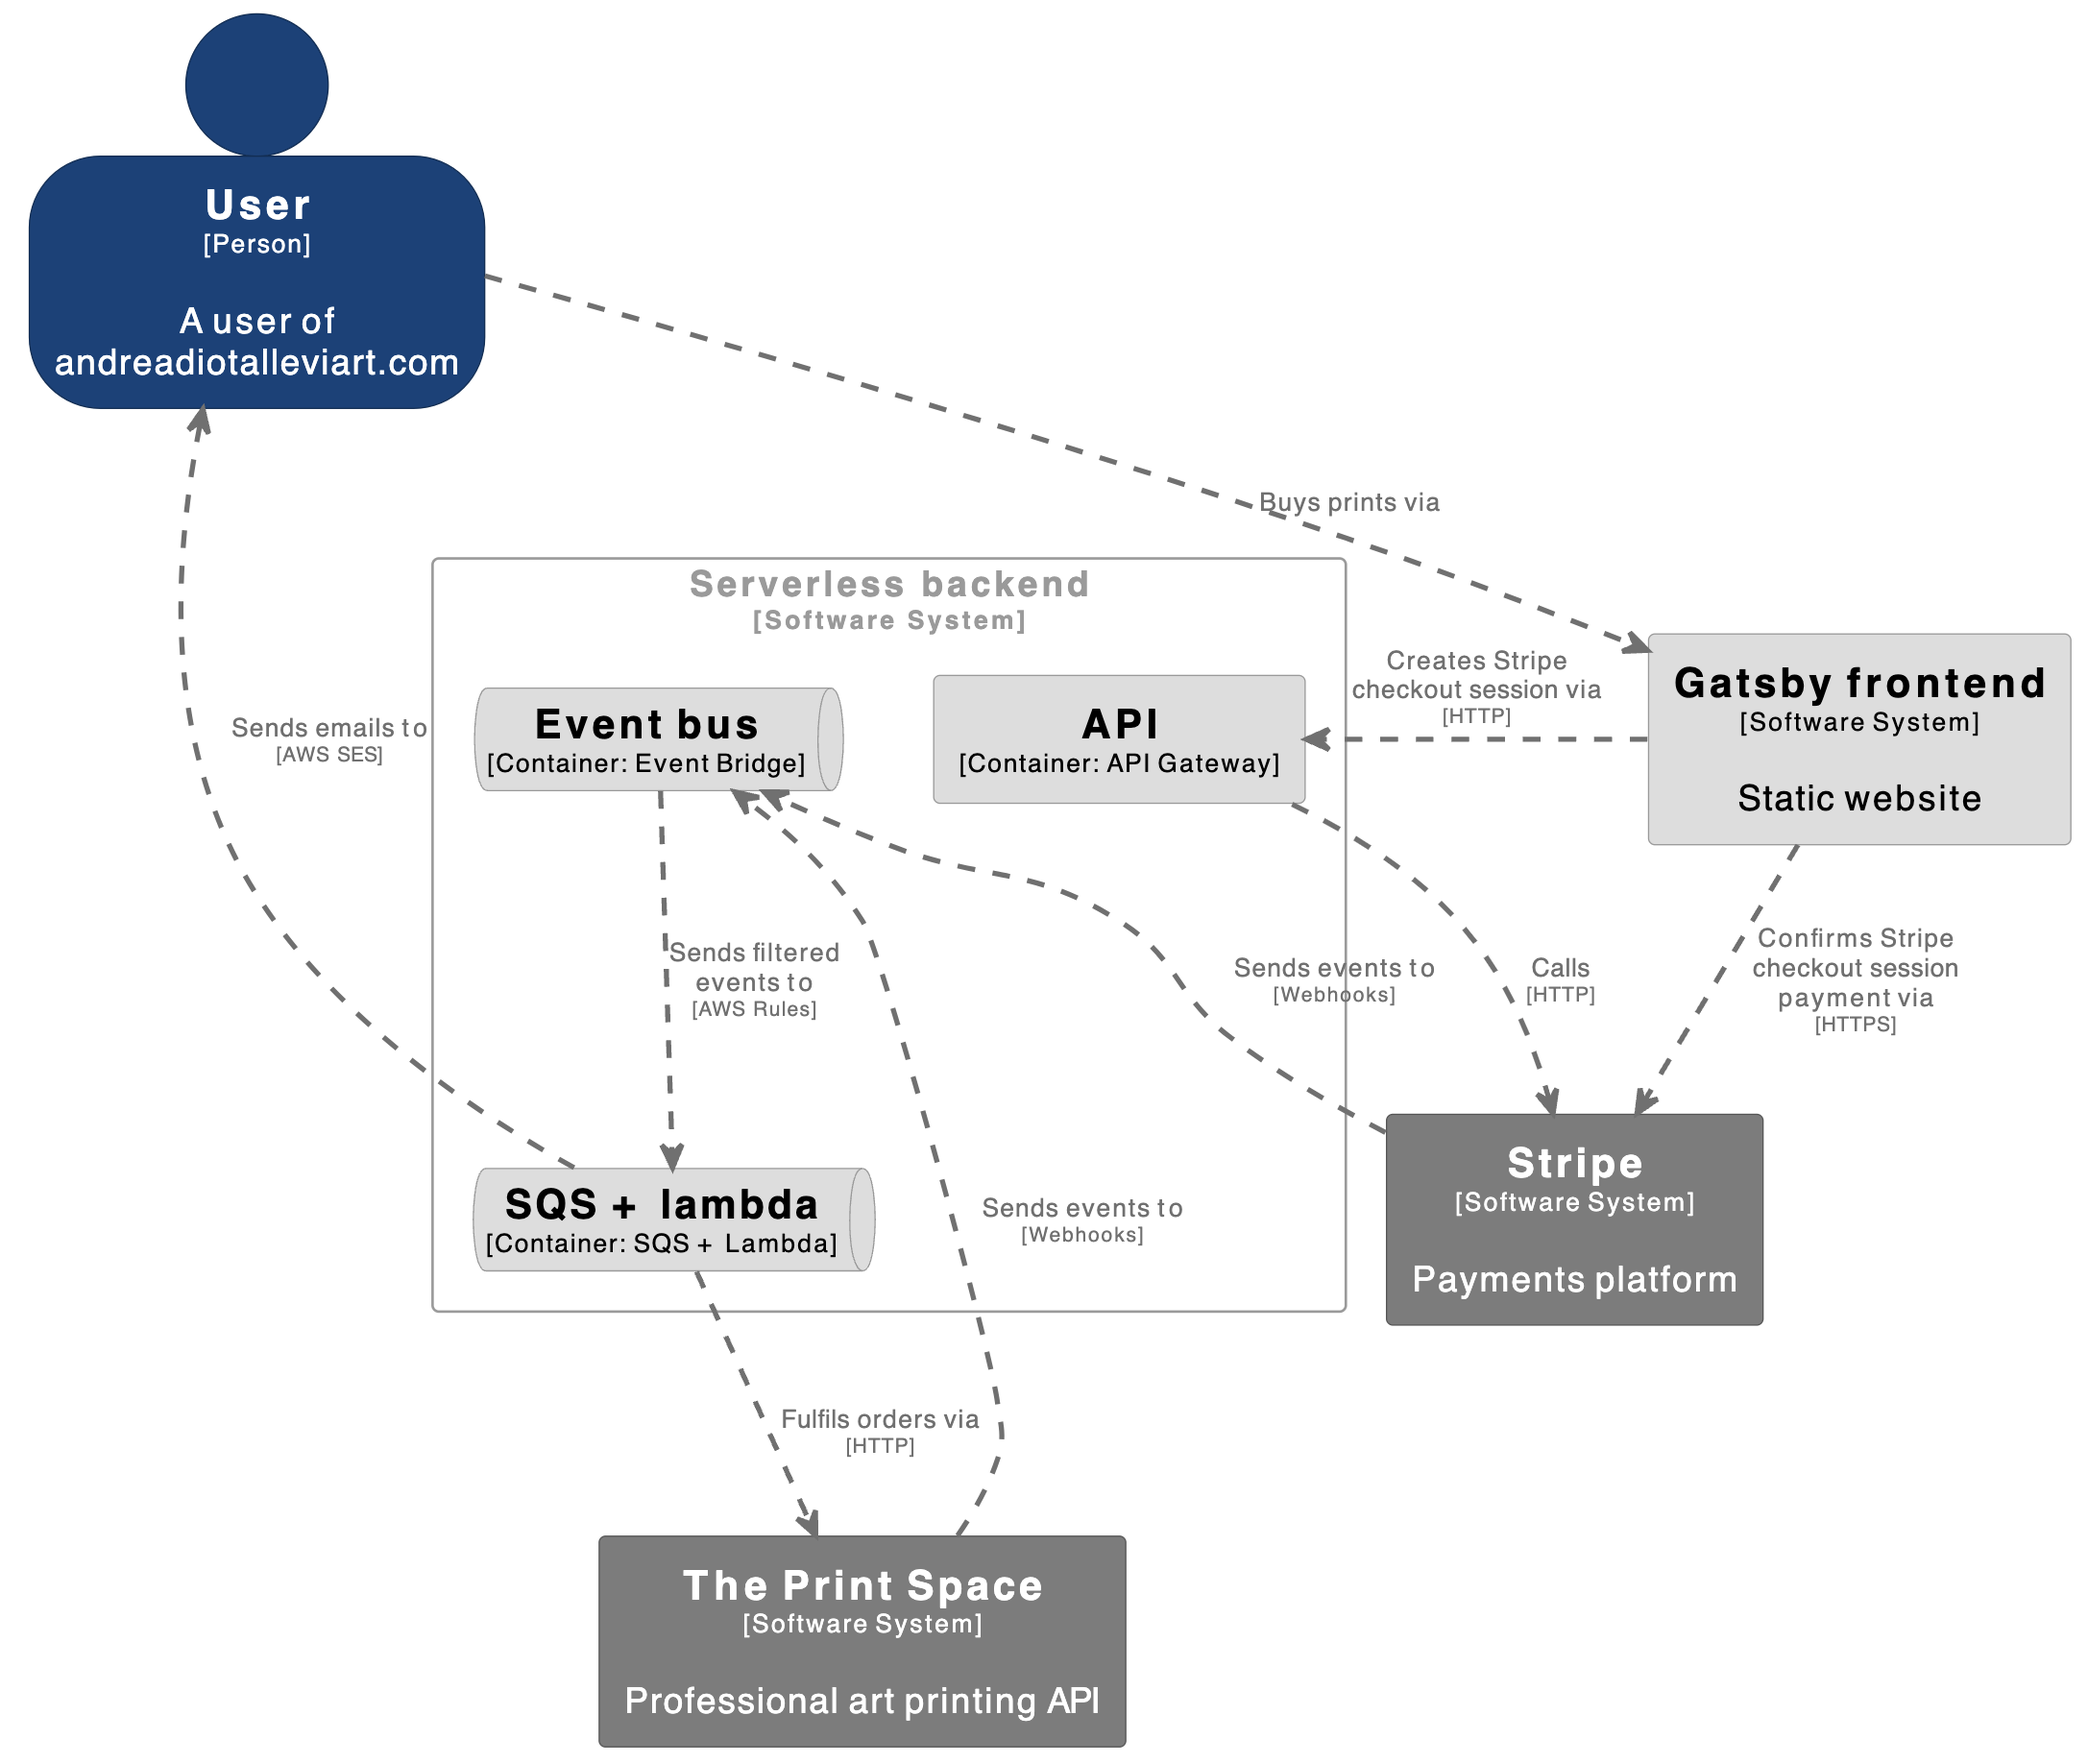
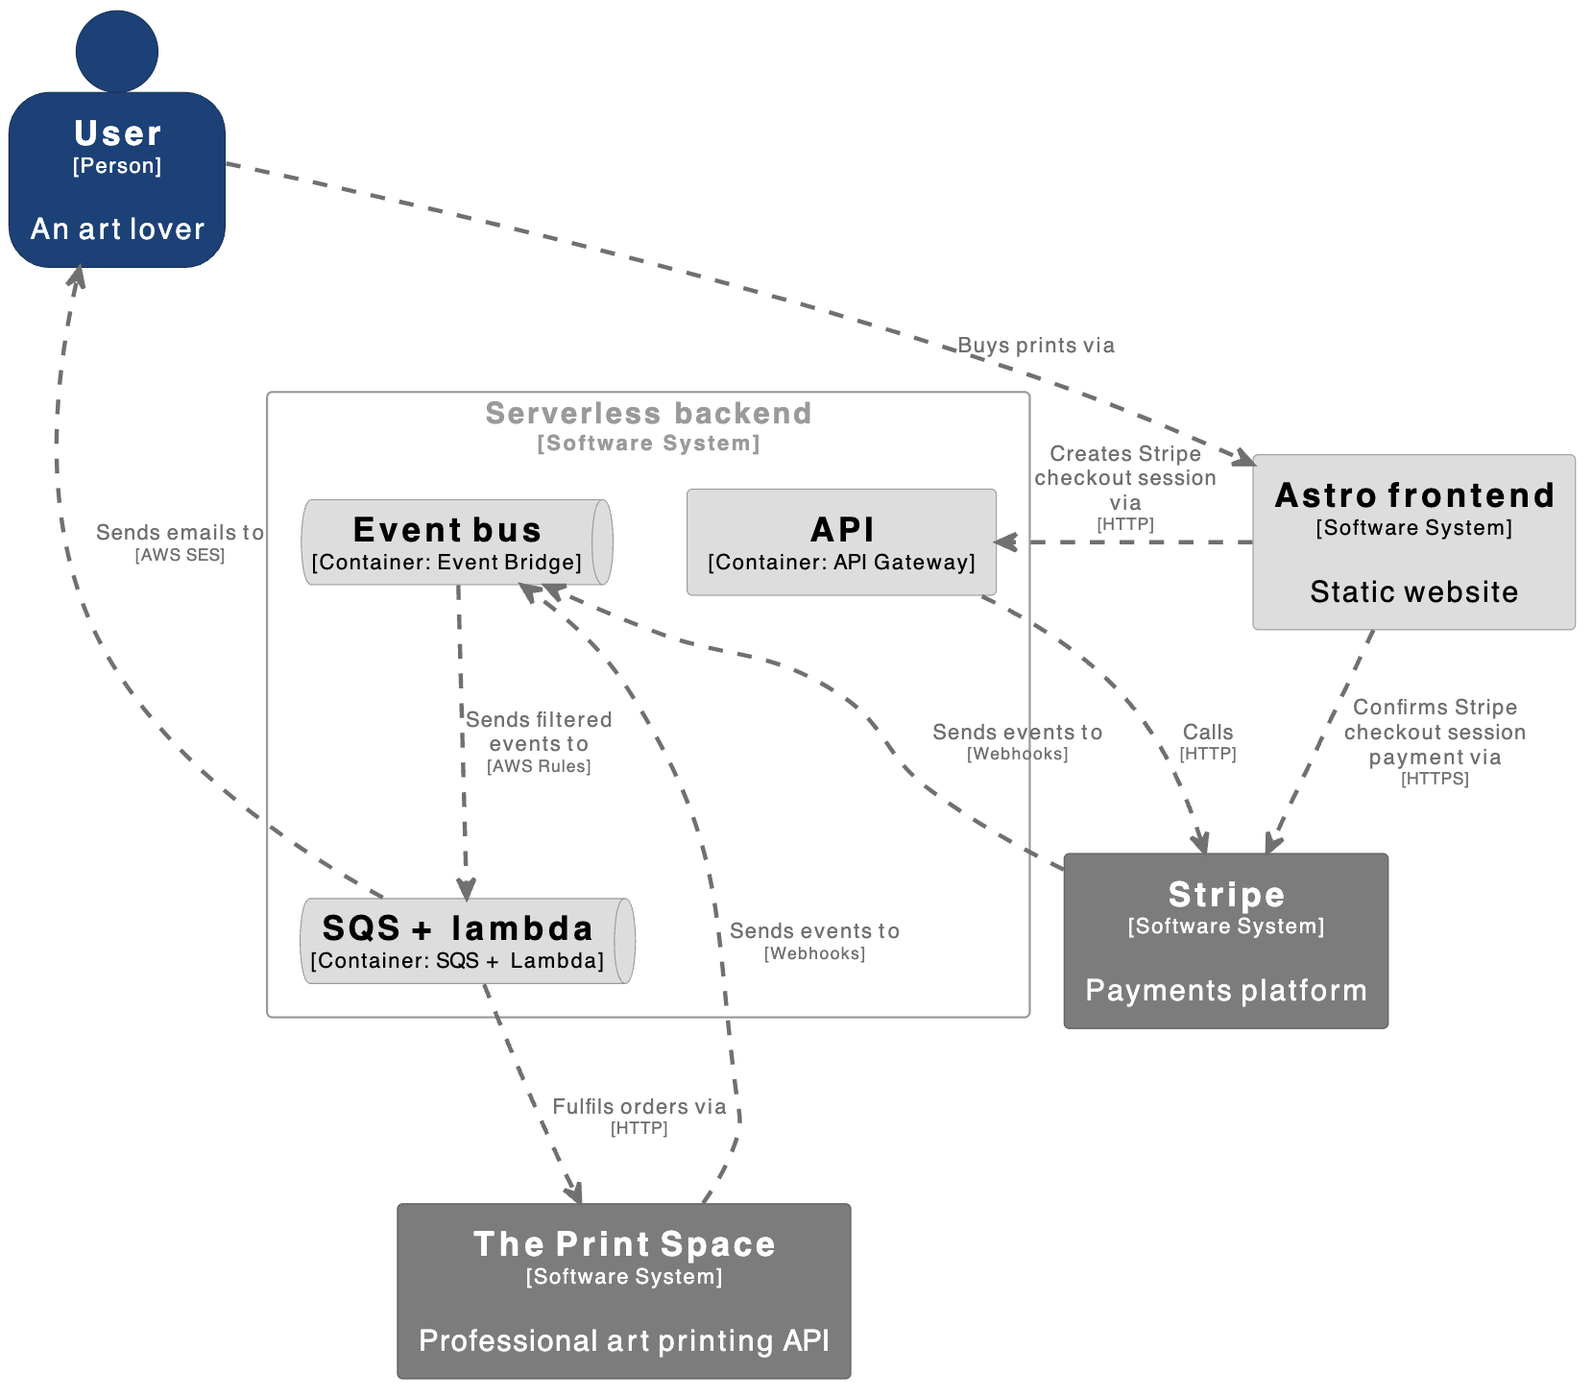
docs: update readme from Gatsby to Astro

diff --git a/README.md b/README.md
@@ -2,7 +2,7 @@
 
 ## Description
 
-This is a Gatsby + AWS Serverless website showcasing my [generative art](https://github.com/AndreaDiotallevi/generative-art) and data visualisation experimentations.
+This is a Astro + AWS Serverless website showcasing my [generative art](https://github.com/AndreaDiotallevi/generative-art) and data visualisation experimentations.
 
 ## Live Website
 
@@ -10,8 +10,7 @@ The application is deployed with Netlify at my custom domain [https://www.andrea
 
 ## Technologies Used
 
--   [Gatsby](https://www.gatsbyjs.com/): Static site generator.
--   [React](https://reactjs.org/): JavaScript library to build the user interface.
+-   [Astro](https://astro.build): Web framework for content-driven websites.
 -   [Stripe](https://docs.stripe.com/payments/checkout?locale=en-GB): Payments platform.
 -   [The Print Space](https://www.theprintspace.co.uk/art-printing-api): Professional photo & art printing API.
 
